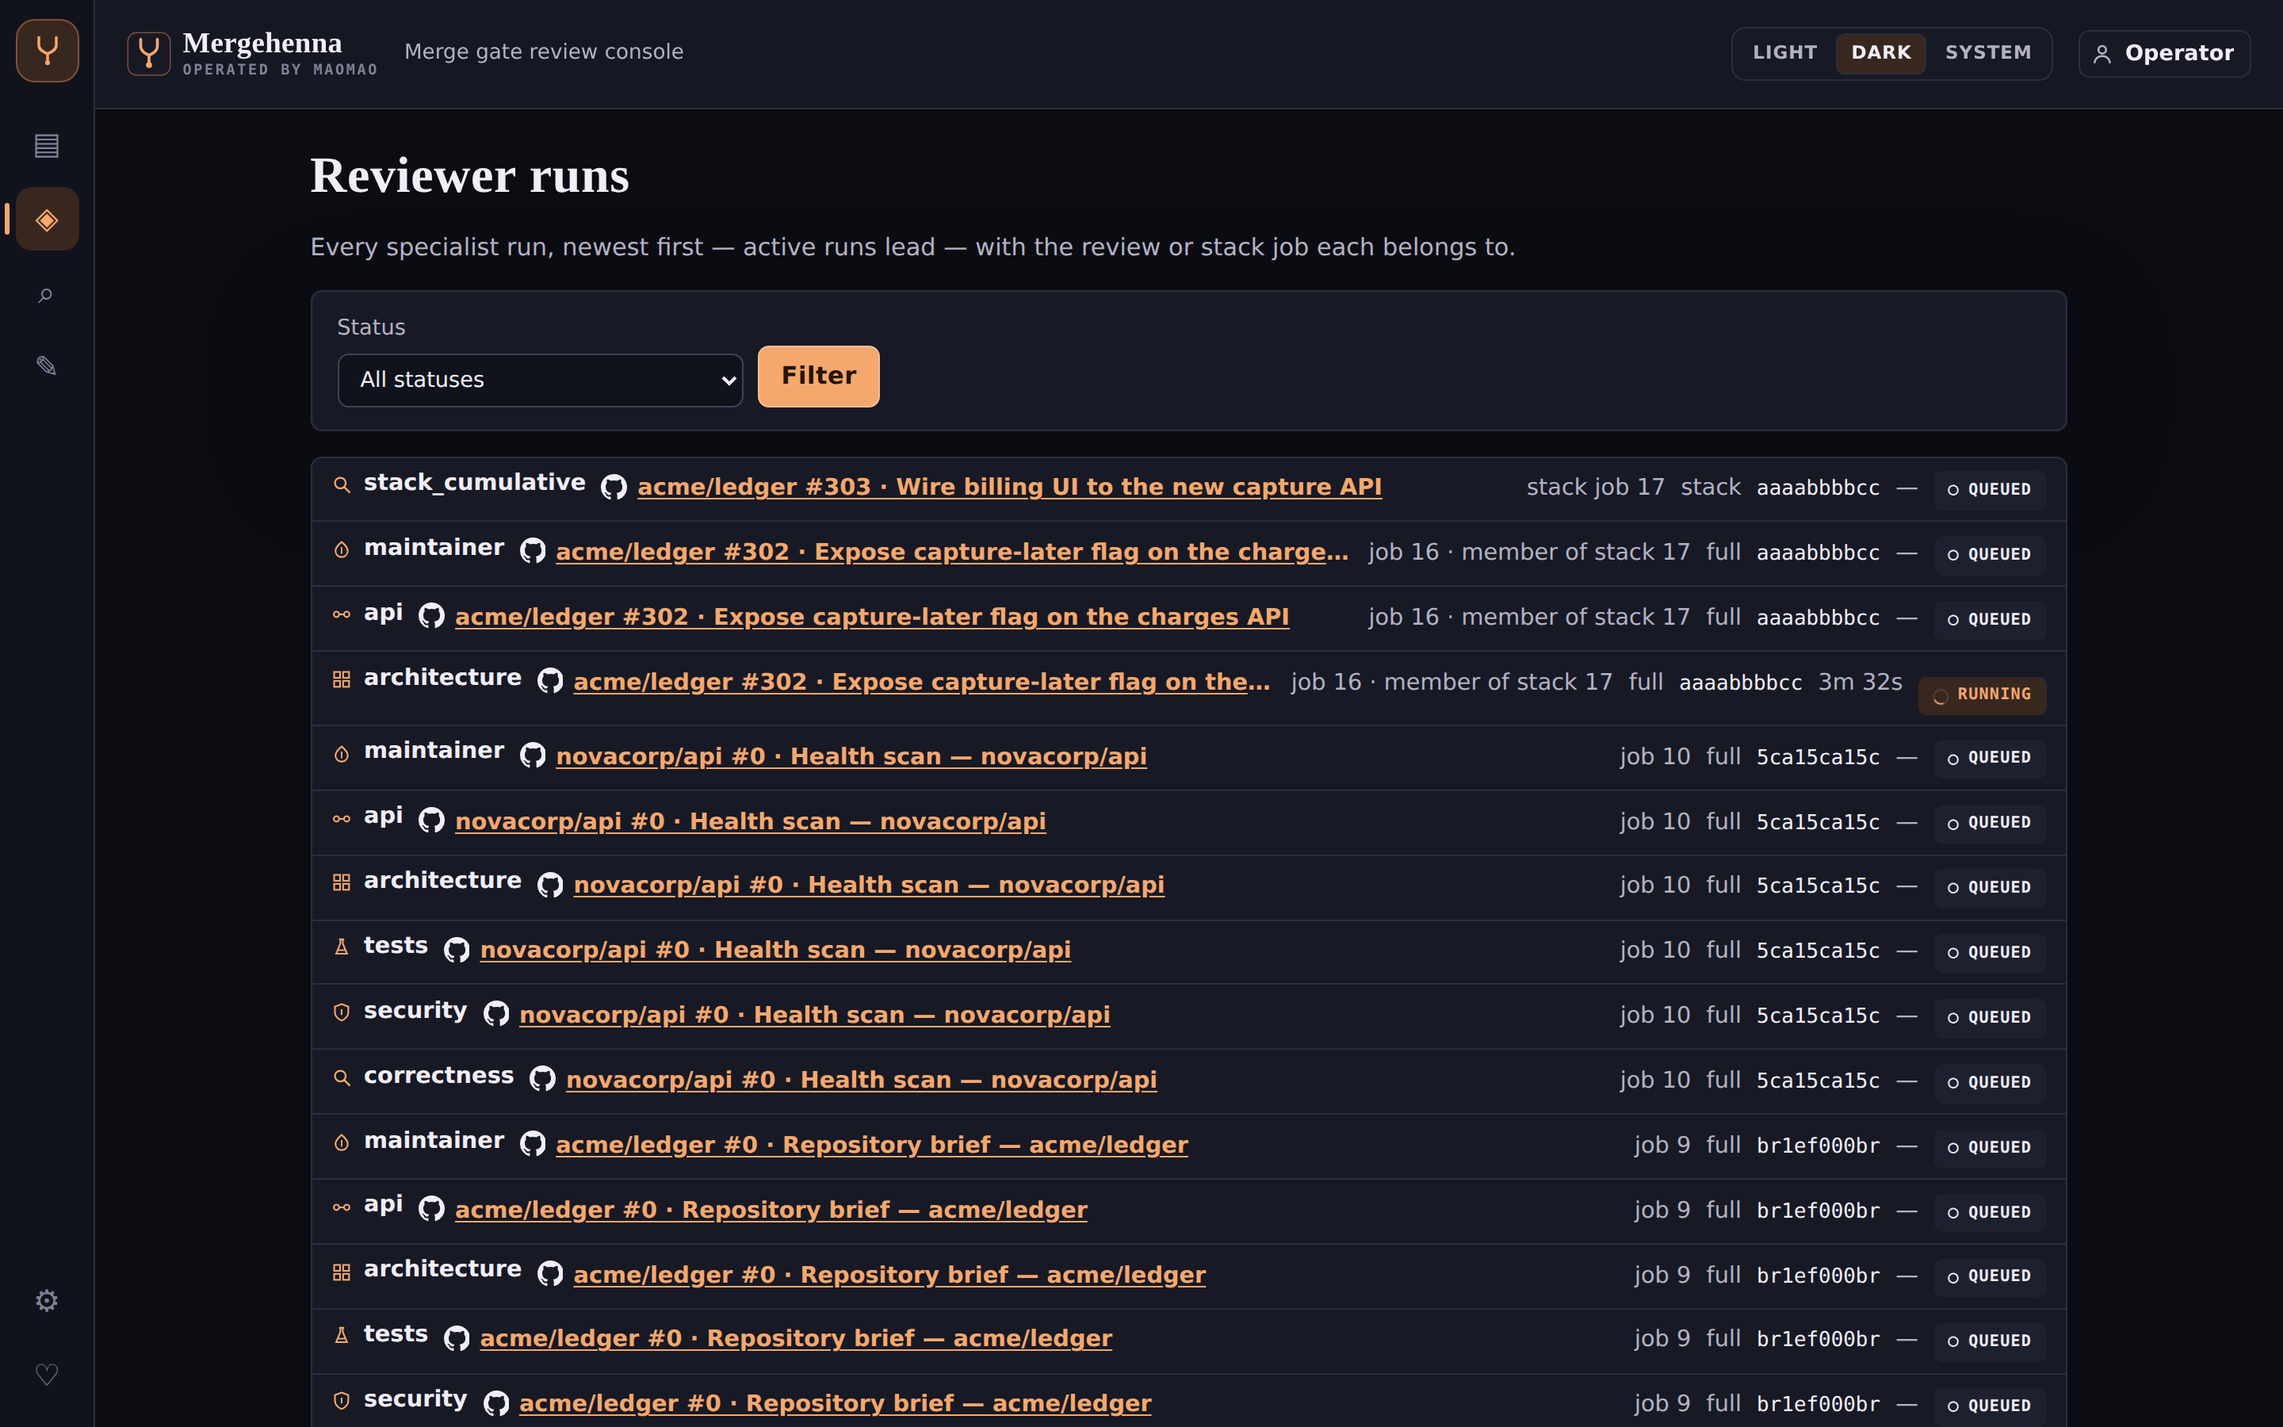
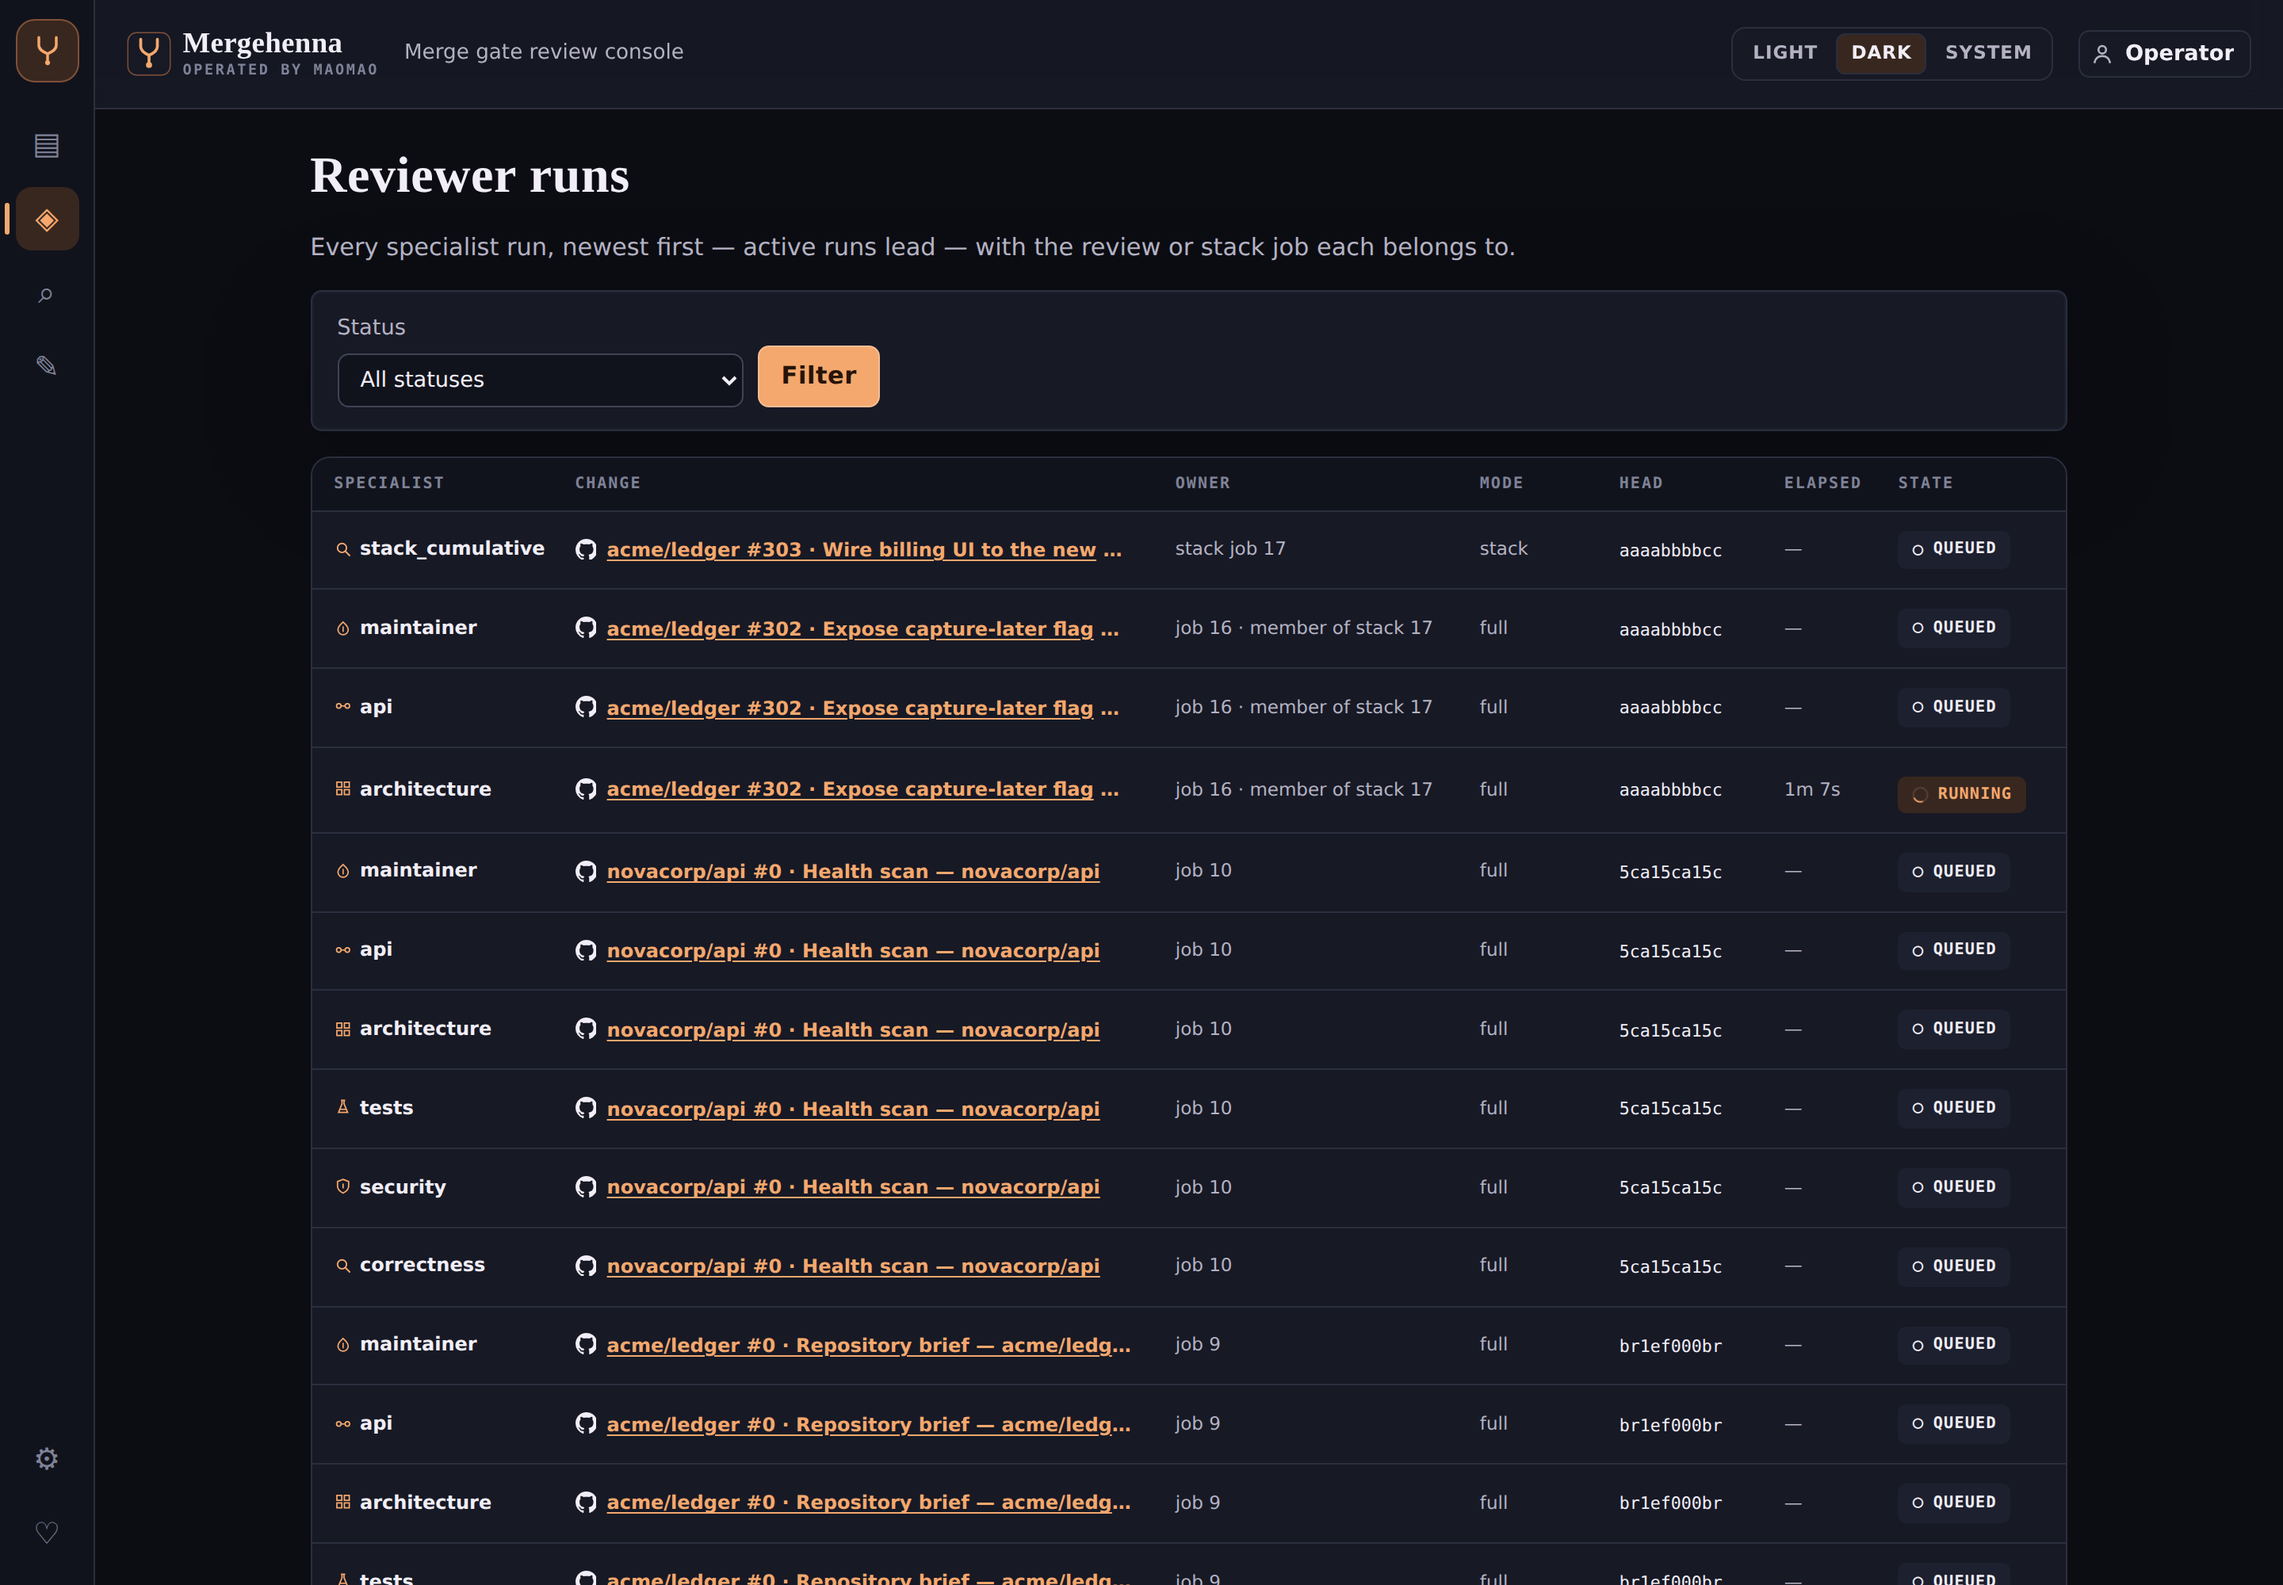
Rebuild the reviewer runs board as an infernal table
The board was a flex row whose meta pieces landed at a different horizontal
position on every row and whose cramped hand-rolled padding fought the
library density. Convert it to the infernal if-table: fixed colgroup so the
owner/mode/head/elapsed/state columns align vertically, the library header
band and row hover, ellipsis truncation on the change title, and horizontal
scroll confined to the wrap on narrow screens instead of the old mobile
flex-wrap hack. The pager becomes bordered button-links with mono page meta
instead of bare text links.

The reviewer-board workbench story now seeds pagination so the pager is
covered in the catalog.

Generated with [Devin](https://devin.ai)

diff --git a/src/ui/theme.ts b/src/ui/theme.ts
@@ -978,47 +978,72 @@ h1 a.pr-external { font-size: 0.72em; }
 
 /* /reviewers board: dense one-line rows — role · PR title · owning job ·
    mode · head · elapsed · state. */
+/* Reviewer runs board — an infernal if-table with fixed columns so every
+   row's meta lines up. The library owns the chrome (wrap, header band, row
+   hover); these rules size the columns and truncate the change title. */
 .run-board {
-  list-style: none;
-  margin: 0;
-  padding: 0;
   background: var(--surface);
-  border: 1px solid var(--line);
-  border-radius: var(--radius);
-  /* Dense rows can't reflow (nowrap meta pieces) — confine the scroll
-     to the board instead of letting it push the page wide. */
-  overflow-x: auto;
+  margin-bottom: 0.4rem;
 }
-.run-row {
-  display: flex;
-  align-items: baseline;
-  gap: 0.6rem;
-  padding: 0.4rem 0.8rem;
-  font-size: 0.9rem;
-  min-width: 0;
-}
-.run-row + .run-row { border-top: 1px solid var(--line); }
-.run-row .role { white-space: nowrap; }
-.run-row .role svg { width: 0.9em; height: 0.9em; vertical-align: -0.1em; }
-.run-title {
-  font-weight: 600;
+.run-board .if-table { table-layout: fixed; min-width: 760px; }
+.run-board .col-role { width: 9.5rem; }
+.run-board .col-title { width: auto; }
+.run-board .col-owner { width: 12rem; }
+.run-board .col-mode { width: 5.5rem; }
+.run-board .col-sha { width: 6.5rem; }
+.run-board .col-elapsed { width: 4.5rem; }
+.run-board .col-state { width: 7.5rem; }
+.run-row td { vertical-align: middle; }
+.run-row .role { white-space: nowrap; display: inline-flex; align-items: center; gap: 0.35rem; }
+.run-row .role svg { width: 0.9em; height: 0.9em; flex: none; }
+.run-title a {
+  display: block;
   overflow: hidden;
   text-overflow: ellipsis;
   white-space: nowrap;
-  flex: 1 1 auto;
-  min-width: 0;
+  font-weight: 600;
 }
 .run-row .run-owner,
 .run-row .run-elapsed,
 .run-row .sha { white-space: nowrap; }
-.run-row .state { margin-left: auto; white-space: nowrap; }
+.run-row .run-owner {
+  overflow: hidden;
+  text-overflow: ellipsis;
+}
+.run-row .run-state .state { white-space: nowrap; }
+.run-row td.muted, .run-row .muted { font-size: 11.5px; }
 .pager {
   display: flex;
   justify-content: space-between;
-  align-items: baseline;
+  align-items: center;
   gap: 1rem;
-  margin: 0.5rem 0.2rem;
+  margin: 0.55rem 0.1rem 0;
   font-size: 0.88rem;
+}
+
+.pager > a {
+  display: inline-flex;
+  align-items: center;
+  padding: 5px 12px;
+  border: 1px solid var(--line);
+  border-radius: var(--radius);
+  background: var(--surface);
+  color: var(--if-accent);
+  font-weight: 600;
+  font-size: 12px;
+  text-decoration: none;
+  transition: border-color 0.15s ease, background 0.15s ease;
+}
+
+.pager > a:hover {
+  border-color: var(--if-accent);
+  background: var(--if-accent-soft, var(--well));
+}
+
+.pager > .muted {
+  font-family: var(--if-mono);
+  font-size: 11px;
+  letter-spacing: 0.02em;
 }
 
 /* Repo / job-type filter bar on the home job list; it reuses the .trigger
@@ -1599,9 +1624,6 @@ details summary { cursor: pointer; color: var(--ink-muted); }
   .member-row .member-title { order: -1; flex: 1 1 100%; }
   /* Same for dense reviewer runs: the title owns line one and the role,
      owner, mode, sha and state flow onto the following lines. */
-  .run-row { flex-wrap: wrap; }
-  .run-row .run-title { order: -1; flex: 1 1 100%; }
-  .run-board { overflow-x: visible; }
 }
 
 @media (min-resolution: 1.4dppx) {

diff --git a/src/ui/pages.ts b/src/ui/pages.ts
@@ -911,15 +911,15 @@ export function renderReviewerBoard(
           : row.stack_job_id != null
             ? `job ${row.job_id} · member of stack ${row.stack_job_id}`
             : `job ${row.job_id}`;
-      return `<li class="run-row">
-        <span class="role">${roleGlyph(row.role)}<strong>${escapeHtml(row.role)}</strong></span>
-        <a class="run-title" href="/jobs/${row.job_id}">${forgeBadgeTitleHtml({ provider: row.forge_provider, provider_instance: row.provider_instance }, row.repo_full_name, row.pr_number)} · ${escapeHtml(row.pr_title || "(no title)")}</a>
-        <span class="muted run-owner">${escapeHtml(owner)}</span>
-        <span class="muted">${escapeHtml(row.job_type === "stack_review" ? "stack" : row.review_mode === "verify" ? "verify-first" : "full")}</span>
-        <code class="sha">${escapeHtml(shortSha(row.head_sha, 10))}</code>
-        <span class="muted run-elapsed">${escapeHtml(formatDuration(elapsedMs(row.started_at, row.finished_at)))}</span>
-        ${renderState(row.state, state.text, state.hint, state.mark)}
-      </li>`;
+      return `<tr class="run-row">
+        <td class="run-role"><span class="role">${roleGlyph(row.role)}<strong>${escapeHtml(row.role)}</strong></span></td>
+        <td class="run-title"><a href="/jobs/${row.job_id}">${forgeBadgeTitleHtml({ provider: row.forge_provider, provider_instance: row.provider_instance }, row.repo_full_name, row.pr_number)} · ${escapeHtml(row.pr_title || "(no title)")}</a></td>
+        <td class="run-owner muted">${escapeHtml(owner)}</td>
+        <td class="muted">${escapeHtml(row.job_type === "stack_review" ? "stack" : row.review_mode === "verify" ? "verify-first" : "full")}</td>
+        <td><code class="sha">${escapeHtml(shortSha(row.head_sha, 10))}</code></td>
+        <td class="run-elapsed muted">${escapeHtml(formatDuration(elapsedMs(row.started_at, row.finished_at)))}</td>
+        <td class="run-state">${renderState(row.state, state.text, state.hint, state.mark)}</td>
+      </tr>`;
     })
     .join("");
   const stateParam = stateFilter ? `&amp;state=${encodeURIComponent(stateFilter)}` : "";
@@ -951,7 +951,11 @@ export function renderReviewerBoard(
     </form>
     ${
       items
-        ? `<ol class="run-board">${items}</ol>${pagerNav}`
+        ? `<div class="if-table-wrap run-board"><table class="if-table">
+          <colgroup><col class="col-role"/><col class="col-title"/><col class="col-owner"/><col class="col-mode"/><col class="col-sha"/><col class="col-elapsed"/><col class="col-state"/></colgroup>
+          <thead><tr><th>Specialist</th><th>Change</th><th>Owner</th><th>Mode</th><th>Head</th><th>Elapsed</th><th>State</th></tr></thead>
+          <tbody>${items}</tbody>
+        </table></div>${pagerNav}`
         : pagination && pagination.total > 0
           ? `<div class="empty" role="status"><p><strong>Page ${pagination.page} is beyond the last page (${totalPages}).</strong></p><p class="muted">${pagination.total} runs${stateFilter ? ` with status ${escapeHtml(stateFilter)}` : ""} — <a href="/reviewers?page=${totalPages}${stateParam}">back to page ${totalPages}</a>.</p></div>`
           : `<div class="empty" role="status"><p><strong>No reviewer runs${stateFilter ? ` with status ${escapeHtml(stateFilter)}` : ""}.</strong></p><p class="muted">Runs appear here as soon as a review job picks specialists.</p></div>`

diff --git a/src/ui-workbench/stories.ts b/src/ui-workbench/stories.ts
@@ -629,7 +629,11 @@ export const STORIES: WorkbenchStory[] = [
     ],
     preview: (variant) => {
       const rows = variant.id === "empty" ? [] : BOARD_MIXED_ROWS;
-      return layoutBody(renderReviewerBoard(rows as Parameters<typeof renderReviewerBoard>[0], {}));
+      return layoutBody(
+        renderReviewerBoard(rows as Parameters<typeof renderReviewerBoard>[0], {
+          runPagination: variant.id === "empty" ? undefined : { page: 2, pageSize: 25, total: 118 },
+        }),
+      );
     },
   },
   {
